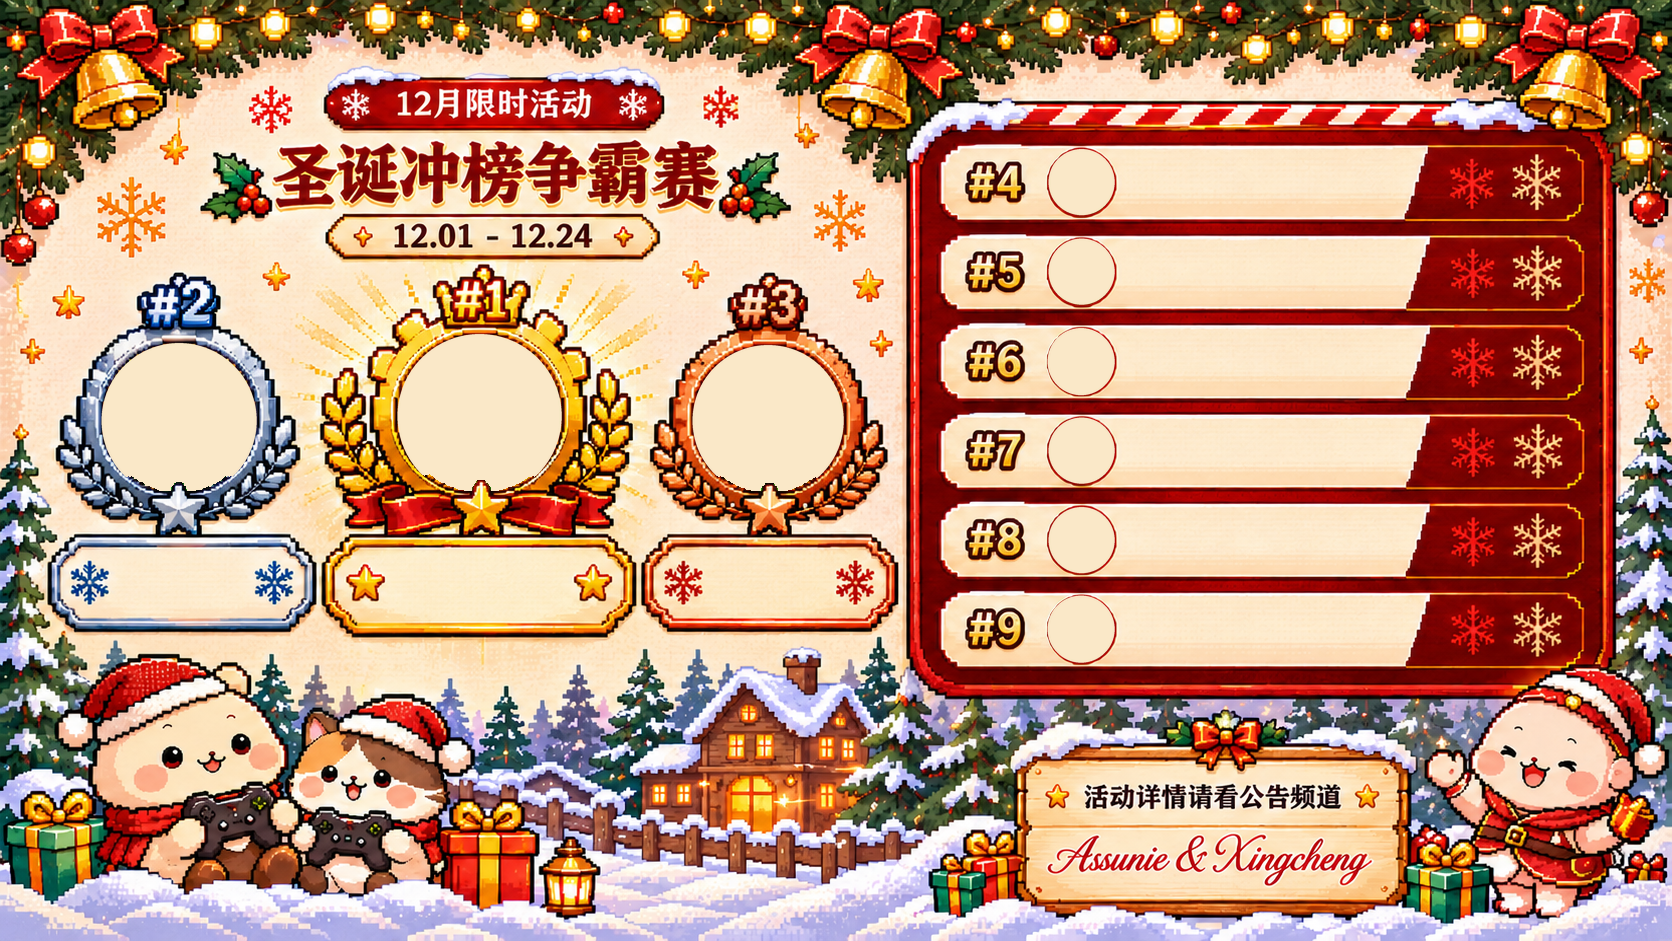
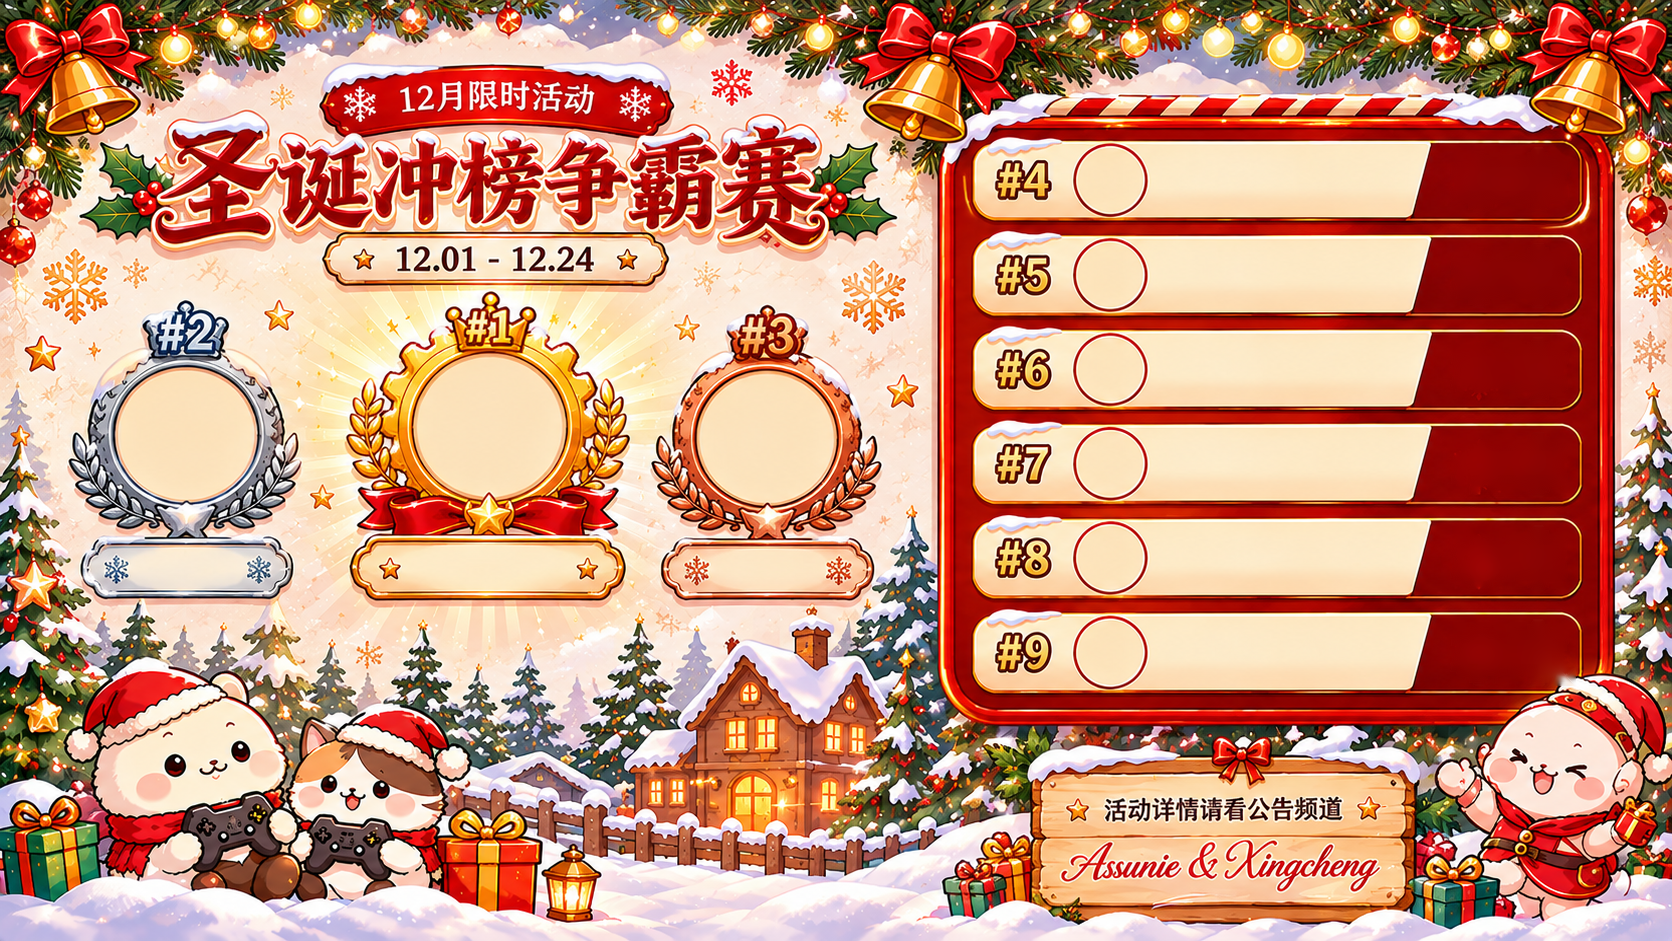
Add files via upload

diff --git a/src/rankImage.js b/src/rankImage.js
@@ -9,16 +9,17 @@ const FAMILY = 'KitchenSans';
 // 头像位置和形状来自 assets/rank/slots.json（9 个圆）和 assets/rank/mask.png（把头像裁进圆圈）
 // 前三名名字栏里名字与签数的位置：
 const PODIUM = [
-  { plateX: 479, nameY: 570, nameSize: 28, maxW: 190, ticketY: 601 }, // 第 1 名
-  { plateX: 182, nameY: 570, nameSize: 26, maxW: 150, ticketY: 600 }, // 第 2 名
-  { plateX: 770, nameY: 570, nameSize: 26, maxW: 150, ticketY: 600 }, // 第 3 名
+  { plateX: 488, nameY: 566, size: 28, maxW: 160, ticketY: 626 }, // 第 1 名
+  { plateX: 187, nameY: 567, size: 26, maxW: 104, ticketY: 619 }, // 第 2 名
+  { plateX: 767, nameY: 567, size: 26, maxW: 108, ticketY: 619 }, // 第 3 名
 ];
-// 第 4-9 名：6 行
-const ROW = { nameX: 1135, nameMaxW: 185, ticketRightX: 1395, size: 31 };
+// 第 4-9 名：6 行；名字在奶油色条里，签数在右边红色区
+const ROW = { nameX: 1163, nameMaxW: 235, ticketCx: 1510, size: 31, ticketSize: 30 };
 
 const INK = '#4A1D12';      // 名字：深棕
 const RED = '#B3261E';      // 签数：圣诞红
 const MUTED = 'rgba(74,29,18,0.4)';
+const CREAM = '#FFF1D6';
 
 let fontReady = false;
 function ensureFont() {
@@ -115,22 +116,40 @@ async function renderRankImage(entries) {
   for (let i = 0; i < 9 && i < entries.length; i++) {
     await drawAvatarSquare(lctx, entries[i].avatar, SLOTS[i], cleanName(entries[i].name));
   }
-  // 人数不足 9 位时，空位用奶油色盖住模板里的绿色，不会露出绿圈
-  for (let i = entries.length; i < 9; i++) {
-    const sl = SLOTS[i];
-    lctx.fillStyle = '#F3E1BE';
-    lctx.fillRect(sl.cx - sl.R, sl.cy - sl.R, sl.R * 2, sl.R * 2);
-  }
   lctx.globalCompositeOperation = 'destination-in';
   lctx.drawImage(mask, 0, 0);
   ctx.drawImage(layer, 0, 0);
 
-  // 2) 前三名：名字和签数
+  // 2) 前三名：名字写在名牌里（自动缩小到放得下），签数放在名牌下面的小红牌里
   for (let i = 0; i < PODIUM.length && i < entries.length; i++) {
     const p = PODIUM[i];
     const e = entries[i];
-    drawText(ctx, cleanName(e.name), p.plateX, p.nameY, p.nameSize, INK, 'center', p.maxW);
-    drawText(ctx, `${e.tickets} 签`, p.plateX, p.ticketY, 22, RED, 'center');
+    const name = cleanName(e.name);
+    let size = p.size;
+    ctx.font = `bold ${size}px ${FAMILY}`;
+    while (size > 18 && ctx.measureText(name).width > p.maxW) {
+      size -= 1;
+      ctx.font = `bold ${size}px ${FAMILY}`;
+    }
+    drawText(ctx, name, p.plateX, p.nameY, size, INK, 'center', p.maxW);
+    const label = `${e.tickets} 签`;
+    ctx.font = `bold 22px ${FAMILY}`;
+    const w = ctx.measureText(label).width + 30;
+    const x0 = p.plateX - w / 2;
+    const y0 = p.ticketY - 15;
+    ctx.beginPath();
+    ctx.moveTo(x0 + 15, y0);
+    ctx.lineTo(x0 + w - 15, y0);
+    ctx.arc(x0 + w - 15, y0 + 15, 15, -Math.PI / 2, Math.PI / 2);
+    ctx.lineTo(x0 + 15, y0 + 30);
+    ctx.arc(x0 + 15, y0 + 15, 15, Math.PI / 2, (Math.PI * 3) / 2);
+    ctx.closePath();
+    ctx.fillStyle = RED;
+    ctx.fill();
+    ctx.lineWidth = 2;
+    ctx.strokeStyle = CREAM;
+    ctx.stroke();
+    drawText(ctx, label, p.plateX, p.ticketY + 1, 22, CREAM, 'center');
   }
 
   // 3) 第 4-9 名
@@ -142,7 +161,7 @@ async function renderRankImage(entries) {
       continue;
     }
     drawText(ctx, cleanName(e.name), ROW.nameX, cy, ROW.size, INK, 'left', ROW.nameMaxW);
-    drawText(ctx, `${e.tickets} 签`, ROW.ticketRightX, cy, ROW.size, RED, 'right');
+    drawText(ctx, `${e.tickets} 签`, ROW.ticketCx, cy, ROW.ticketSize, CREAM, 'center');
   }
 
   return canvas.toBuffer('image/png');

diff --git a/src/commands.js b/src/commands.js
@@ -84,7 +84,7 @@ async function cmdMyTickets(interaction) {
 
   const footer = cfg.TEST_FAST
     ? '快速测试模式已开启，门槛已放宽，仅用于实测'
-    : '统计 12月1日-12月23日 | 闭麦挂机与水贴不计入';
+    : '统计 12月1日-12月24日 | 闭麦挂机与水贴不计入';
 
   // 优先发图片卡片；出图失败就退回文字卡片，保证一定有回复
   try {
@@ -134,7 +134,7 @@ async function cmdMyTickets(interaction) {
     .setFooter({
       text: cfg.TEST_FAST
         ? '⚠ 快速测试模式已开启，门槛已放宽，仅用于实测'
-        : '统计周期：12月1日 - 12月23日 | 闭麦挂机与水贴不计入统计',
+        : '统计周期：12月1日 - 12月24日 | 闭麦挂机与水贴不计入统计',
     });
 
   return interaction.editReply({ embeds: [embed] });
@@ -167,7 +167,7 @@ async function cmdHelpEvent(interaction) {
     .setColor(0x2ecc71)
     .setTitle('🎄 圣诞厨房寻宝季 · 活动规则')
     .setDescription(
-      `**12月1日 — 12月23日**，常回厨房开麦、聊天或带朋友入伙，就能自动攒幸运签，圣诞夜直播抽奖，最多抽出 **${cfg.CHRISTMAS_WINNERS_COUNT} 份**礼物。`
+      `**12月1日 — 12月24日**，常回厨房开麦、聊天或带朋友入伙，就能自动攒幸运签，圣诞夜直播抽奖，最多抽出 **${cfg.CHRISTMAS_WINNERS_COUNT} 份**礼物。`
     )
     .addFields(
       {
@@ -228,7 +228,7 @@ async function cmdDraw(interaction) {
   if (!testMode) {
     if (Date.now() <= getEventWindow().end) {
       return interaction.reply({
-        content: '⏳ 统计还没截止，12月23日 23:59 之后才能正式开奖。想先预演，请把 `test` 选项选 True。',
+        content: '⏳ 统计还没截止，12月24日 20:00 之后才能正式开奖。想先预演，请把 `test` 选项选 True。',
         flags: EPHEMERAL,
       });
     }

diff --git a/src/register.js b/src/register.js
@@ -16,7 +16,7 @@ function buildCommands() {
 
     new SlashCommandBuilder()
       .setName('draw-christmas')
-      .setDescription('🎄 【管理员】现场直播开奖（12月23日 23:59 之后才能正式开奖）')
+      .setDescription('🎄 【管理员】现场直播开奖（12月24日 20:00 之后才能正式开奖）')
       .setDefaultMemberPermissions(PermissionFlagsBits.Administrator)
       .addBooleanOption((o) =>
         o

diff --git a/src/db.js b/src/db.js
@@ -89,7 +89,7 @@ function getMYDateString() {
 function getEventWindow() {
   return {
     start: new Date(process.env.EVENT_START_ISO || '2026-12-01T00:00:00+08:00').getTime(),
-    end: new Date(process.env.EVENT_END_ISO || '2026-12-23T23:59:59+08:00').getTime(),
+    end: new Date(process.env.EVENT_END_ISO || '2026-12-24T19:59:59+08:00').getTime(),
   };
 }
 
